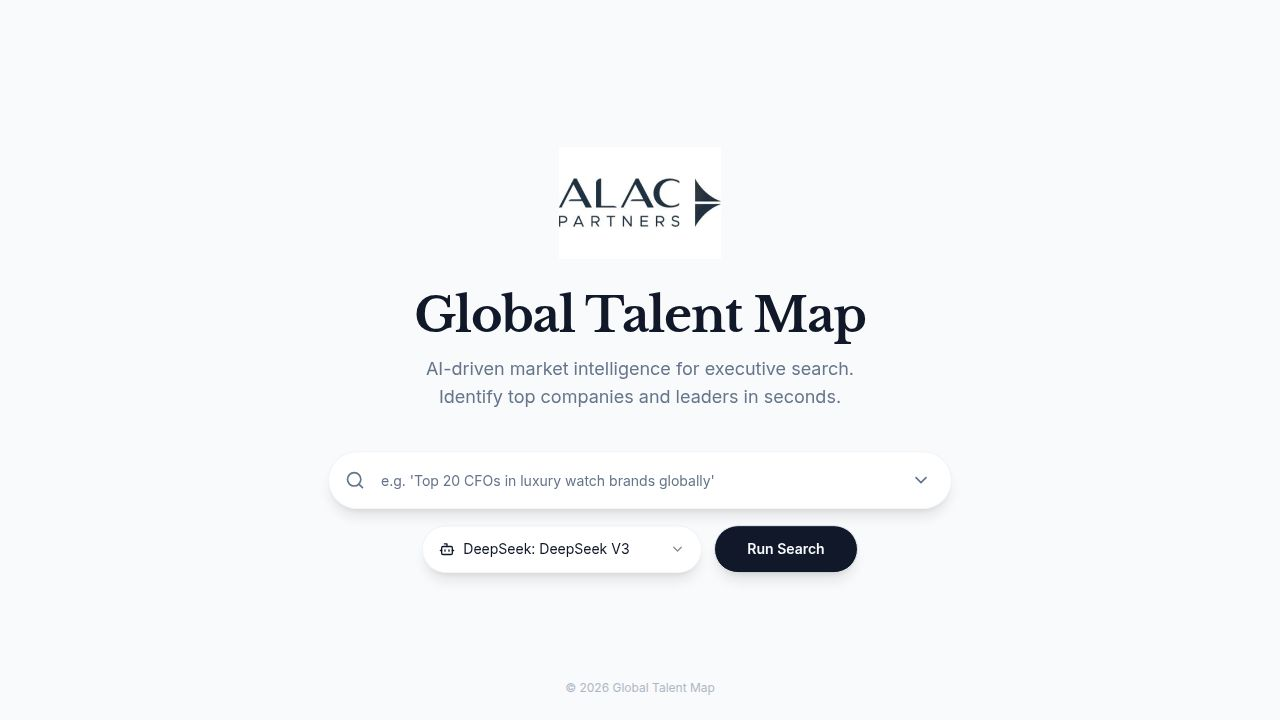
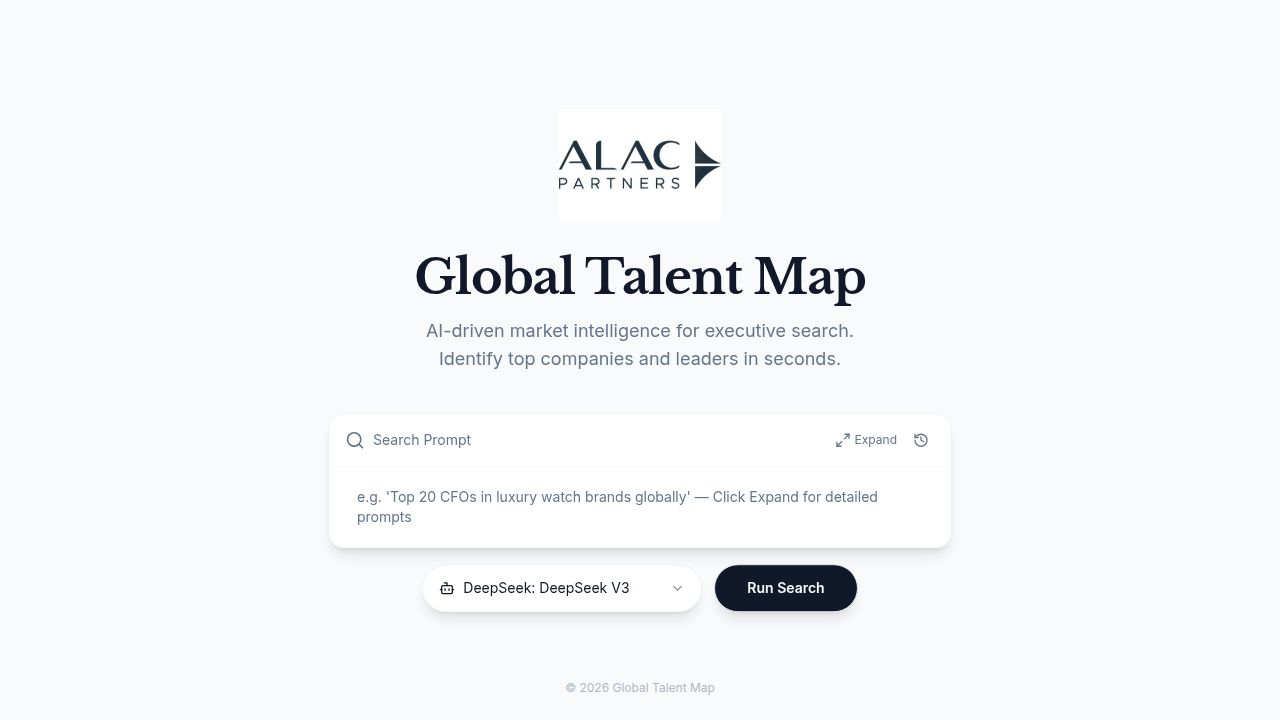
Update search input to an expandable textarea with enhanced placeholder
Replace the input field with a multi-line textarea that can expand and collapse, improving the user experience for entering search prompts.

Replit-Commit-Author: Agent
Replit-Commit-Session-Id: 928cdb99-c6f2-4ec0-9a63-45503a730fe4
Replit-Commit-Checkpoint-Type: full_checkpoint
Replit-Commit-Event-Id: 2875e1c8-540d-44e4-bd5a-003cbc1ed3fa
Replit-Commit-Screenshot-Url: https://storage.googleapis.com/screenshot-production-us-central1/9fca7580-c44b-4255-9049-a846123d9e2d/928cdb99-c6f2-4ec0-9a63-45503a730fe4/FRA0H8r
Replit-Helium-Checkpoint-Created: true

diff --git a/client/src/pages/Landing.tsx b/client/src/pages/Landing.tsx
@@ -3,9 +3,10 @@ import { useLocation } from 'wouter';
 import { useAppStore } from '@/lib/store';
 import { useSearch, useModels, useSearchHistory } from '@/lib/api';
 import { Input } from '@/components/ui/input';
+import { Textarea } from '@/components/ui/textarea';
 import { Button } from '@/components/ui/button';
 import { Select, SelectContent, SelectItem, SelectTrigger, SelectValue } from '@/components/ui/select';
-import { Search, Loader2, Bot, ChevronDown, History } from 'lucide-react';
+import { Search, Loader2, Bot, ChevronDown, ChevronUp, History, Maximize2, Minimize2 } from 'lucide-react';
 import logoImage from '@/assets/images/logo.png';
 import { motion } from 'framer-motion';
 import { toast } from 'sonner';
@@ -14,8 +15,9 @@ export default function Landing() {
   const [input, setInput] = useState('');
   const [selectedModel, setSelectedModel] = useState('deepseek/deepseek-chat');
   const [showHistory, setShowHistory] = useState(false);
+  const [isPromptExpanded, setIsPromptExpanded] = useState(false);
   const [, setLocation] = useLocation();
-  const inputRef = useRef<HTMLInputElement>(null);
+  const inputRef = useRef<HTMLTextAreaElement>(null);
   const historyRef = useRef<HTMLDivElement>(null);
   
   const { setProject, loadFromAPI } = useAppStore();
@@ -148,27 +150,59 @@ export default function Landing() {
           <div className="flex flex-col gap-4">
             <div className="relative" ref={historyRef}>
               <div className="relative group">
-                <div className="absolute inset-0 bg-primary/5 blur-xl rounded-full opacity-0 group-hover:opacity-100 transition-opacity duration-500" />
-                <div className="relative flex items-center bg-card shadow-lg rounded-full border border-border/50 overflow-hidden hover:shadow-xl transition-shadow duration-300">
-                  <Search className="ml-4 h-5 w-5 text-muted-foreground shrink-0" />
-                  <Input 
-                    ref={inputRef}
-                    value={input}
-                    onChange={(e) => setInput(e.target.value)}
-                    onFocus={() => setShowHistory(true)}
-                    placeholder="e.g. 'Top 20 CFOs in luxury watch brands globally'" 
-                    className="border-0 shadow-none focus-visible:ring-0 h-14 text-lg bg-transparent px-4 flex-1"
-                    disabled={searchMutation.isPending}
-                    data-testid="input-search-query"
-                    title={input}
-                  />
-                  <button 
-                    type="button"
-                    onClick={() => setShowHistory(!showHistory)}
-                    className="p-2 mr-3 hover:bg-muted rounded-full transition-colors"
-                  >
-                    <ChevronDown className={`h-5 w-5 text-muted-foreground transition-transform ${showHistory ? 'rotate-180' : ''}`} />
-                  </button>
+                <div className={`absolute inset-0 bg-primary/5 blur-xl opacity-0 group-hover:opacity-100 transition-opacity duration-500 ${isPromptExpanded ? 'rounded-2xl' : 'rounded-full'}`} />
+                <div className={`relative bg-card shadow-lg border border-border/50 overflow-hidden hover:shadow-xl transition-all duration-300 ${isPromptExpanded ? 'rounded-2xl' : 'rounded-2xl'}`}>
+                  <div className="flex items-center px-4 py-3 border-b border-border/30">
+                    <Search className="h-5 w-5 text-muted-foreground shrink-0" />
+                    <span className="text-sm text-muted-foreground ml-2">Search Prompt</span>
+                    <div className="flex-1" />
+                    <div className="flex items-center gap-1">
+                      <button 
+                        type="button"
+                        onClick={() => setIsPromptExpanded(!isPromptExpanded)}
+                        className="p-1.5 hover:bg-muted rounded-md transition-colors flex items-center gap-1"
+                        title={isPromptExpanded ? "Collapse prompt" : "Expand for detailed prompt"}
+                        data-testid="button-toggle-prompt-expand"
+                      >
+                        {isPromptExpanded ? (
+                          <Minimize2 className="h-4 w-4 text-muted-foreground" />
+                        ) : (
+                          <Maximize2 className="h-4 w-4 text-muted-foreground" />
+                        )}
+                        <span className="text-xs text-muted-foreground">{isPromptExpanded ? 'Collapse' : 'Expand'}</span>
+                      </button>
+                      <button 
+                        type="button"
+                        onClick={() => setShowHistory(!showHistory)}
+                        className="p-1.5 hover:bg-muted rounded-md transition-colors"
+                        title="Search history"
+                        data-testid="button-toggle-history"
+                      >
+                        <History className="h-4 w-4 text-muted-foreground" />
+                      </button>
+                    </div>
+                  </div>
+                  <div className="px-4 py-3">
+                    <Textarea 
+                      ref={inputRef}
+                      value={input}
+                      onChange={(e) => setInput(e.target.value)}
+                      onFocus={() => {
+                        if (!isPromptExpanded && input.length < 50) {
+                          setShowHistory(true);
+                        }
+                      }}
+                      placeholder={isPromptExpanded 
+                        ? `Enter a detailed search prompt...\n\nExample:\nTask: List exactly 10 operating companies involved in renewable power transmission...\n\nInclusion criteria:\n- Entity must be a company, not a project or SPV\n- Must have operational involvement in target sector\n\nExclusion criteria:\n- Exclude pure contractors with no operating assets\n\nData rules:\n- Revenue must only be included if explicitly stated\n- If data is unclear, return "Unknown"`
+                        : "e.g. 'Top 20 CFOs in luxury watch brands globally' — Click Expand for detailed prompts"
+                      }
+                      className={`border-0 shadow-none focus-visible:ring-0 text-base bg-transparent resize-none transition-all duration-200 ${
+                        isPromptExpanded ? 'min-h-[280px] max-h-[500px]' : 'min-h-[50px] max-h-[100px]'
+                      }`}
+                      disabled={searchMutation.isPending}
+                      data-testid="input-search-query"
+                    />
+                  </div>
                 </div>
               </div>
               
